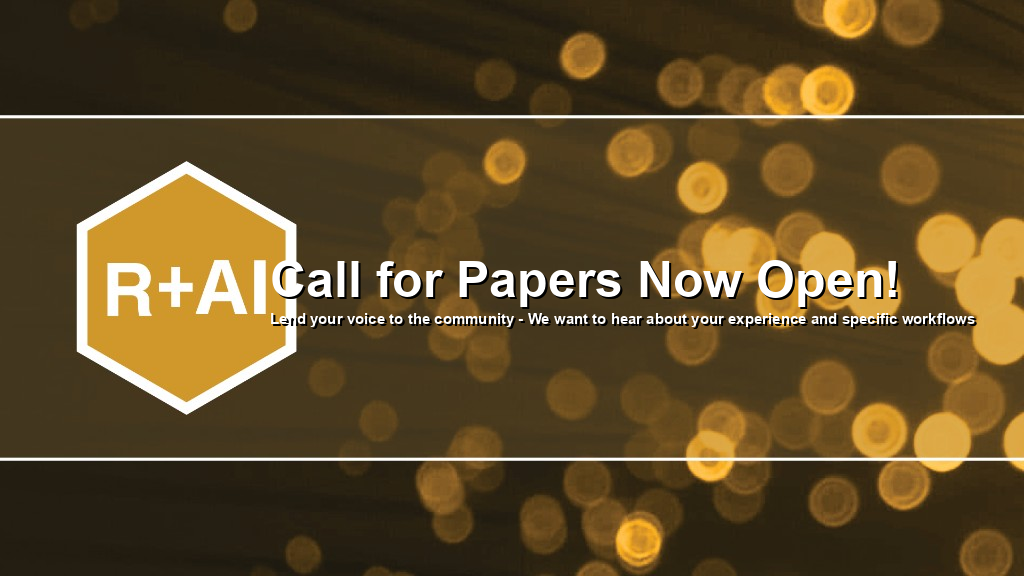
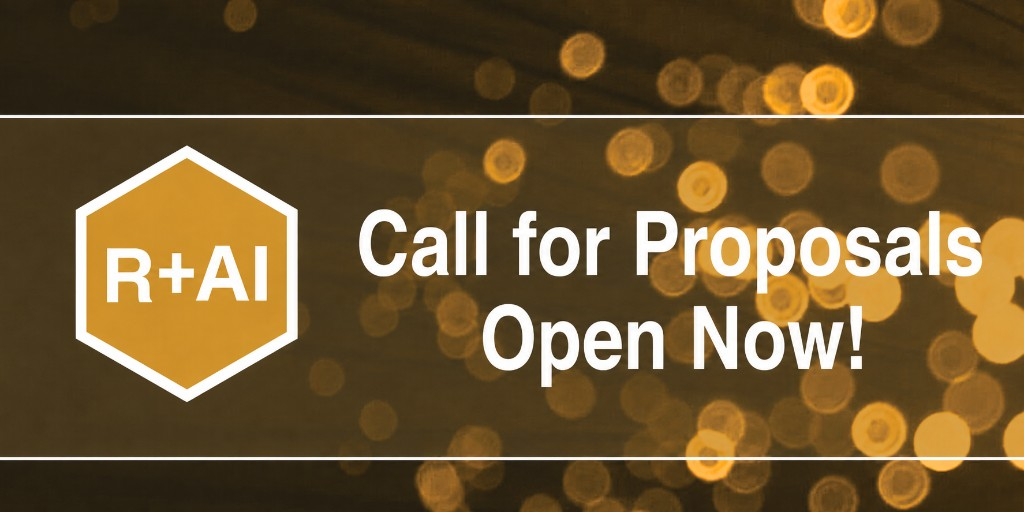
Update CFP/home graphics, Past Events thumbnail, and mustard submit button.
Use the provided CFP and 2025 banners, point Past Events to the R+AI 2025 YouTube playlist, and label topics as examples from 2025.

diff --git a/styles.css b/styles.css
@@ -1,0 +1,21 @@
+/* R+AI brand mustard (hex logo fill) */
+:root {
+  --rai-mustard: #D09028;
+  --rai-mustard-hover: #B87C1F;
+}
+
+.btn-rai-mustard,
+button.btn-rai-mustard {
+  background-color: var(--rai-mustard) !important;
+  border-color: var(--rai-mustard) !important;
+  color: #fff !important;
+}
+
+.btn-rai-mustard:hover,
+button.btn-rai-mustard:hover,
+.btn-rai-mustard:focus,
+button.btn-rai-mustard:focus {
+  background-color: var(--rai-mustard-hover) !important;
+  border-color: var(--rai-mustard-hover) !important;
+  color: #fff !important;
+}
